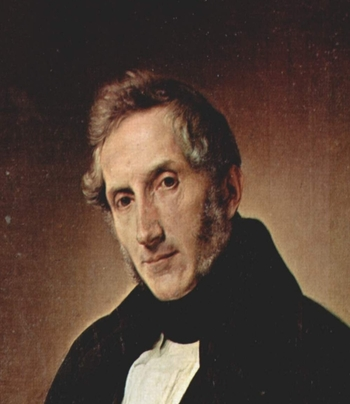
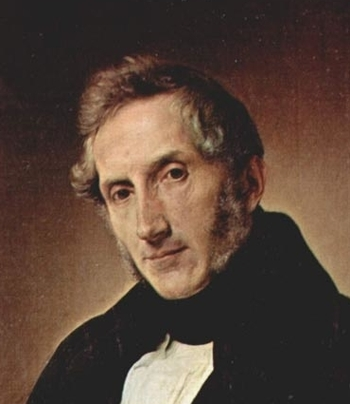
Update author images Small fix in cart page

diff --git a/public/pages/cart.html b/public/pages/cart.html
@@ -109,17 +109,16 @@
                 <div class="card-footer margin-top-10">
                     <div class="row">
                     <div class="col-md-3">
-                        <button id="empty" type="button" class="btn btn-outline-danger btn-sm btn-block">
+                        <button id="empty" type="button" class="btn btn-big btn-outline-danger btn-sm btn-block">
                             <i class="fas fa-trash"></i> Empty cart
                         </button>
                     </div>
-                    <div class="col-md-4">
-                    </div>
-                    <div class="col-xs-2 text-right">
+
+                    <div class="col-md-6 align-all">
                         <span class="h4" id="total_price"></span>€
                     </div>
                     <div class="col-md-3">
-                        <button id="checkout" type="button" class="btn btn-outline-success btn-sm btn-block">
+                        <button id="checkout" type="button" class="btn btn-big btn-outline-success btn-sm btn-block">
                             <i class="fas fa-credit-card"></i> Checkout
                         </button>
                     </div>

diff --git a/public/pages/authors.html b/public/pages/authors.html
@@ -8,7 +8,7 @@
     <meta name="description" content="">
     <meta name="author" content="">
 
-    <title>All events this month</title>
+    <title>All authors</title>
 
     <!-- CSS -->
     <link href="../vendor/bootstrap/css/bootstrap.min.css" rel="stylesheet">

diff --git a/public/assets/css/style.css b/public/assets/css/style.css
@@ -48,6 +48,11 @@ nav .fa-shopping-cart, .fa-user {
     text-align: justify;
 }
 
+.align-all {
+    display: flex;
+    align-items: center;
+    justify-content: center;
+}
 
 
 /* keep card deck responsive */
